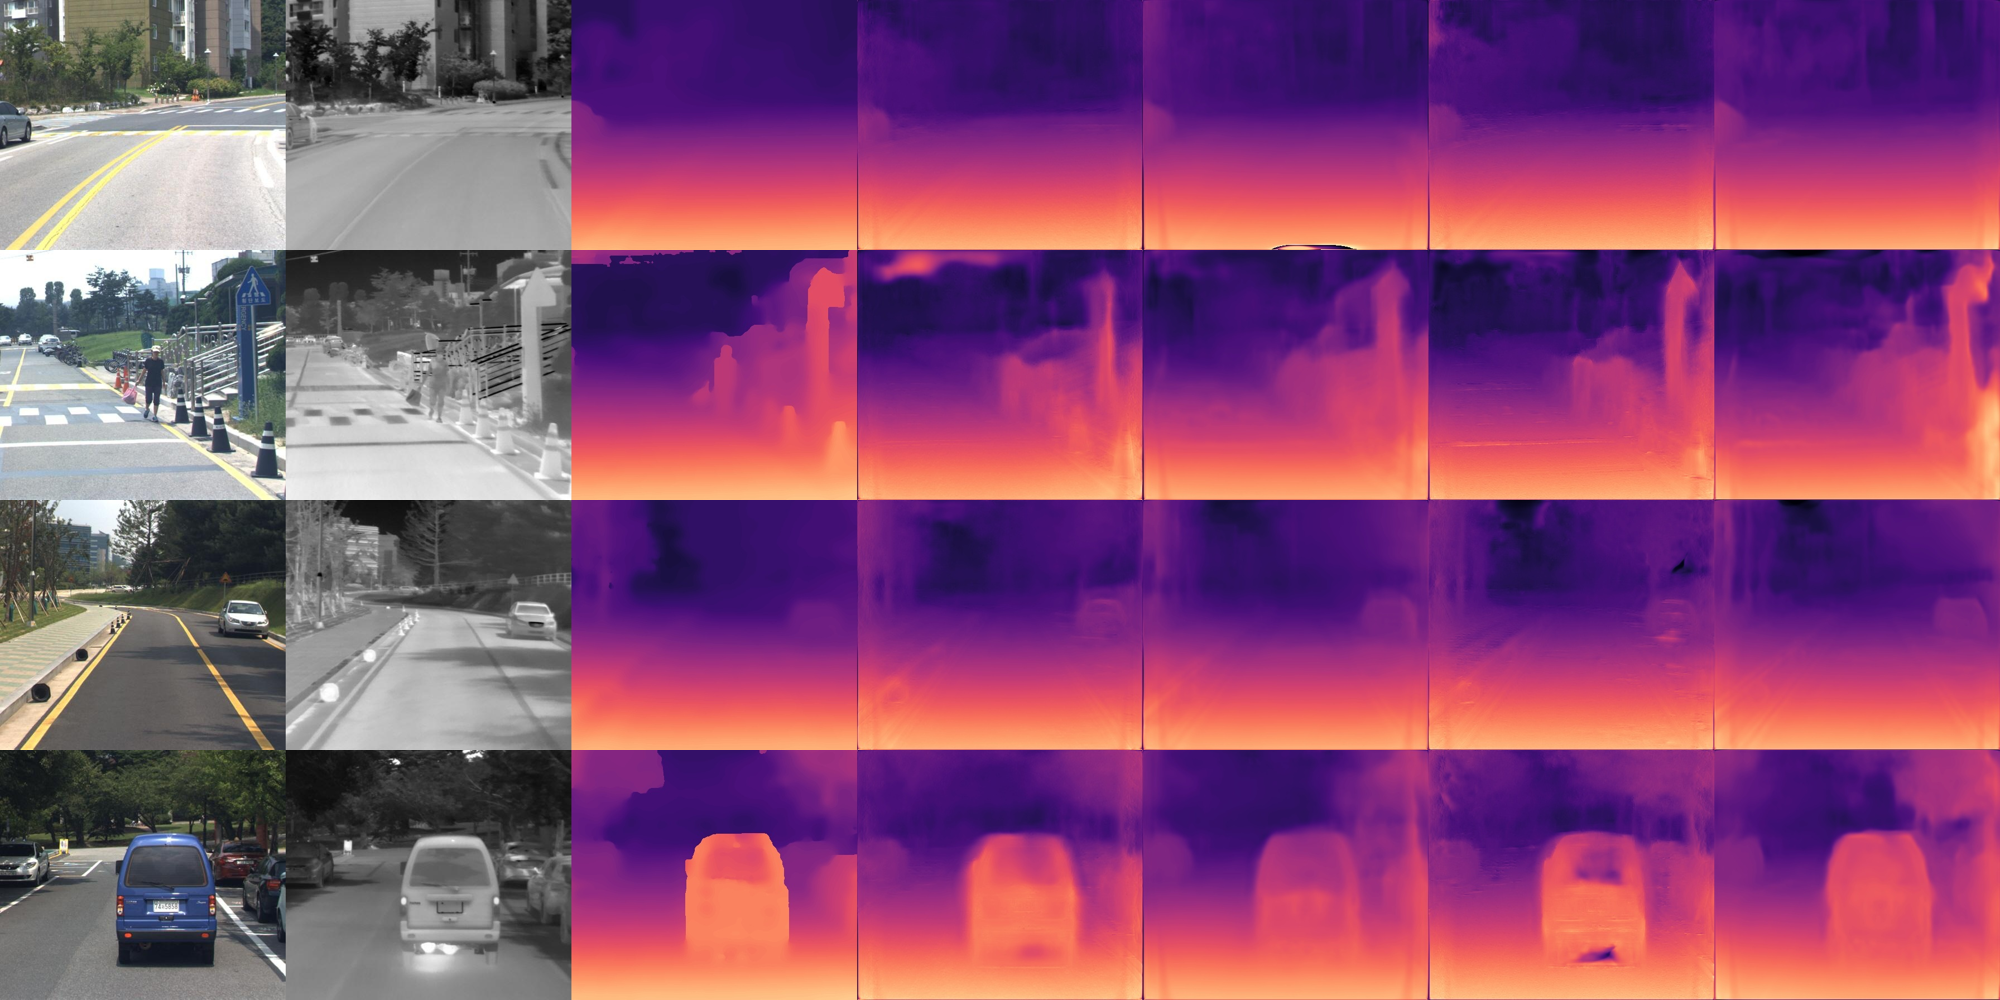
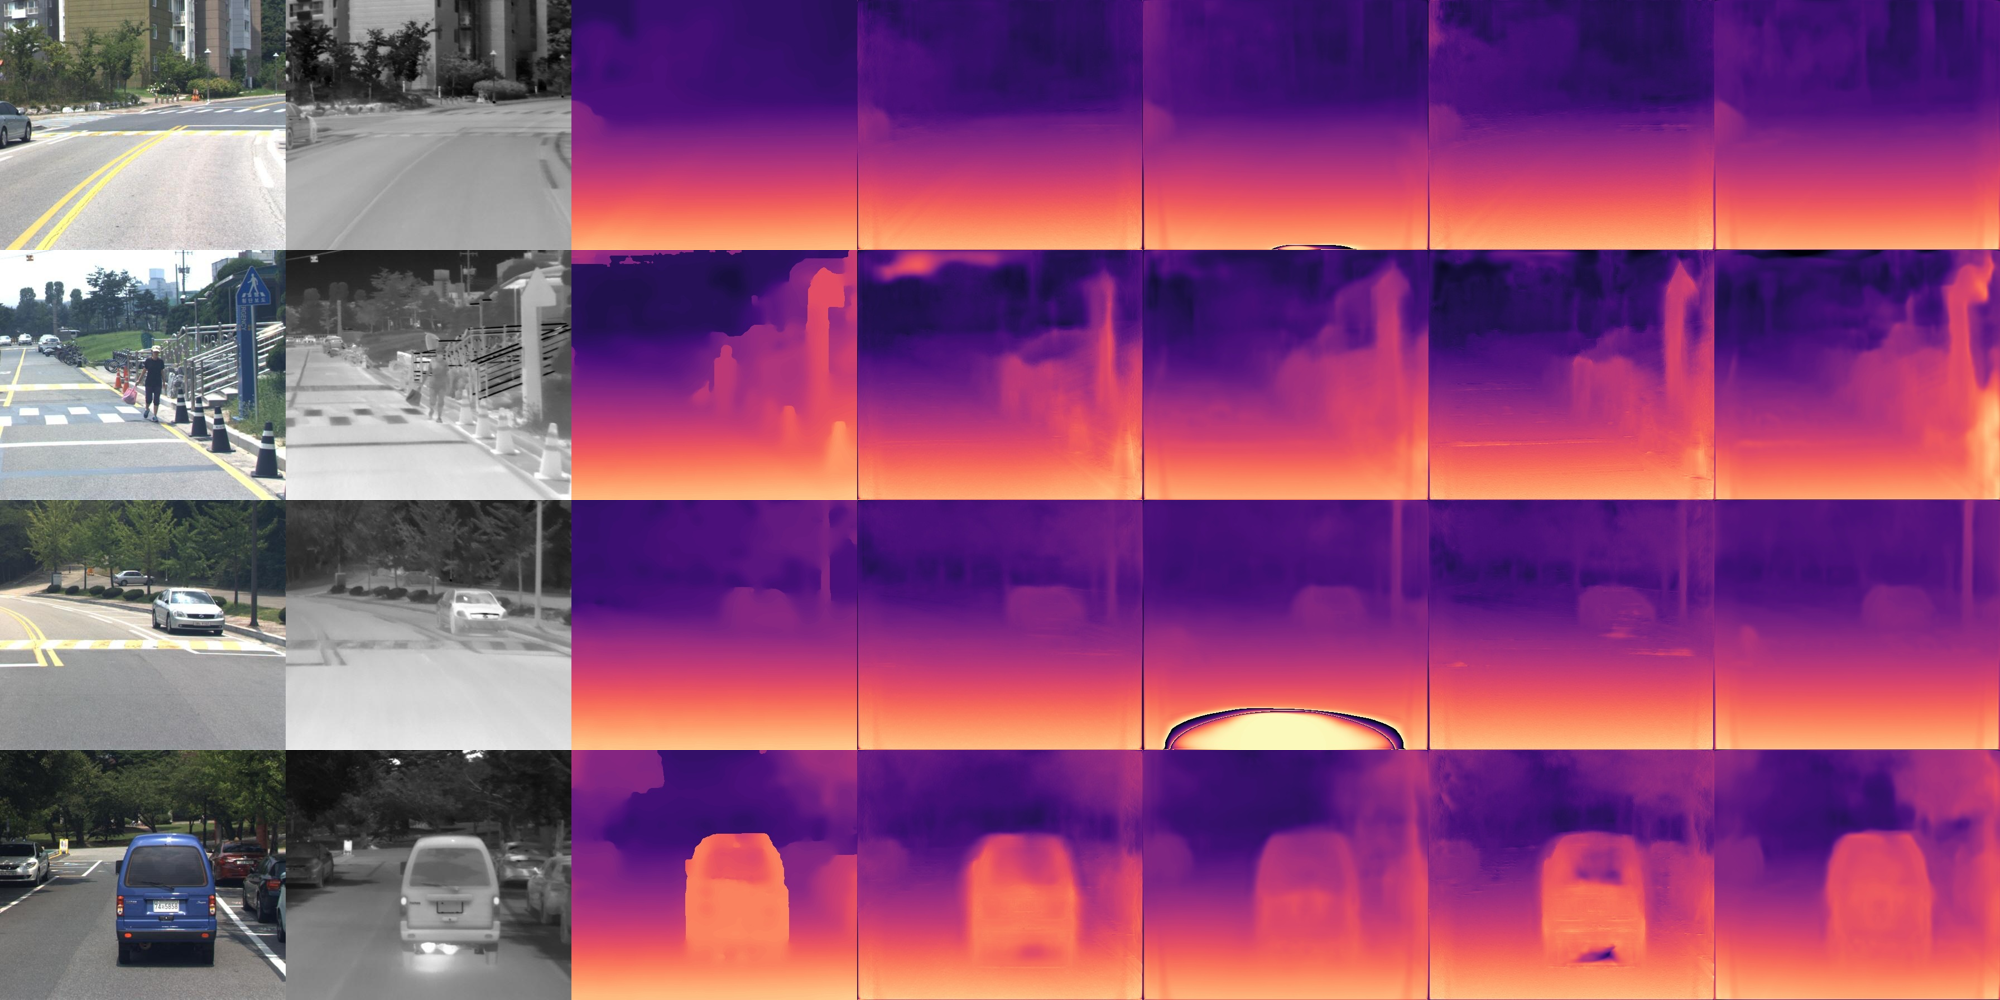
Readme

diff --git a/Pseudo-Lidar/README.md b/Pseudo-Lidar/README.md
@@ -109,31 +109,42 @@ matplotlib
 
 
 ## 정량적 평가
-- 칼라 영상(RGB)과 열화상영상(Thermal) 각각을 깊이 추정 모델의 입력 영상으로 사용하여 추정된 깊이 정보의 정확도를 분석
 
-| model |  입력영상| RMSE <50| RMLSE<50 | RMSE <80| RMLSE<80 |
+- 추정된 깊이 정보의 성능 평가를 위해 성능평가지표(evaluation metric)로 RMSE(Root Mean Squre Error)와 RMLSE((Root Mean Squre Logarithmic Error)를 사용 하였음
+- 깊이 정보의 성능 평가를 위해 일반적으로 최대 깊이 정보를 50m 혹은 80m 로 제한하고 있음.
+- 칼라 영상(RGB)과 열화상영상(Thermal) 각각을 깊이 추정 모델의 입력 영상으로 사용하여 추정된 깊이 정보의 정확도를 분석
+  - 분석 결과 열화상 영상을 입력으로 사용한 결과(RMSE)는 칼라 영상을 입력으로 사용한 결과와 소폭 차이는 있으나 유사한 것으로 판단됨
+  - 또한 RMSLE 에서는 오히려 열화상 영상을 입력으로한 결과가 좋은 성능을 보임. 이를 통해 전체적인 Depth 의 정확성은 칼라를 입력으로 했을 때 더욱 좋은 성능을 보장하지만, 가까운 물체의 깊이정보가 중요할 경우 열화상 영상을 입력으로 하면 좋다는 결론이 도출 된다.   
+
+| model |  입력영상| RMSE <50| RMLSE<50m | RMSE <80m| RMSLE<80 m|
 |:-----: | :-----:|:-----: |:-----: |:-----: |:-----: |
 | Monodepth |   칼라  |  4.2886 |  0.2038  | 4.2886 | 0.2038 |
 | Monodepth |   열화상 |  4.7079 |  0.1988 | 4.7079 | 0.1988 |
 
 - 베이스 라인 방법론에 멀티스펙트럴 데이터셋을 적용했을 경우 문제되는 Depth Hall을 줄이기 위해 Balanced L1 loss , Smooth L1 Loss 적용 성능
+  - Smooth L1 loss를 L1 loss 대신 적용했을 때 RMSLE 평가 지표에서 가장 좋은 성능을 나타냄, 또한 열화상을 입력으로 했을 때는 50m 이하 RMSE 에서도 베이스라인 성능 보다 좋은 성능을 보인다. 
 
-| model |  입력영상| RMSE <50| RMLSE<50 | RMSE <80| RMLSE<80 |
+| model |  입력영상| RMSE <50m | RMLSE<50m | RMSE <80m| RMSLE<80m |
 |:-----: | :-----:|:-----: |:-----: |:-----: |:-----: |
 | Monodepth |   칼라  |  4.2886 |  0.2038  | 4.2886 | 0.2038 |
 | Monodepth+Balanced L1 loss |   칼라 |  4.4707 |  0.1880 | 5.5746 | 0.1955 |
-| Monodepth+Smooth L1 loss |   칼라  |  4.3035 |  0.1805  | 5.1633 | 0.1895 |
+| Monodepth+Smooth L1 loss(제안된 방법론) |   칼라  |  4.3035 |  0.1805  | 5.1633 | 0.1895 |
 | Monodepth |   열화상 |  4.7079 |  0.1988 | 4.7079 | 0.1988 |
 | Monodepth+Balanced L1 loss |   열화상  |  4.7470 |  0.1941  | 5.8399 | 0.2058 |
-| Monodepth+Smooth L1 loss |   열화상 |  4.4529 |  0.1830 | 5.1450 | 0.1897 |
+| Monodepth+Smooth L1 loss(제안된 방법론) |   열화상 |  4.4529 |  0.1830 | 5.1450 | 0.1897 |
 
 
 ## 정성적 평가
 - 자가 학습 기반 깊이 추정 모델(Pseudo-Lidar)의 정성적 결과
-![eval_visualize](images/eval_visualize.png) (그림 1) 왼쪽 칼라영상, 열화상영상, 정답 Disparity 영상, 칼라 영상을 이용한 베이스라인 결과 , 열화상영상을 이용한  베이스라인 결과, 칼라 영상을 이용한 제안된 방법론 결과, 열화상 영상을 이용한 제안한 방법론 결과
-- 열화상 영상을 이용하여 추정된 깊이 정보를 3D 공간상으로 투영한 정성적 결과
-![visualize_Thermal](images/visualize_Thermal.jpg) (그림 2) 왼쪽 부터  열화상 영상 , 추정된 깊이 영상,  추정된 Pseudo-Lidar 
-- 칼라 영상을 이용하여 추정된 깊이 정보를 3D 공간상으로 투영한 정성적 결과
-![visualize_Thermal](images/visualize_RGB.jpg) (그림 3) 왼쪽 부터  칼라 영상 , 추정된 깊이 영상,  추정된 Pseudo-Lidar 
+   - 4열과 5열을 비교해볼 경우, 깊이 추정을 위해 사용된 입력 영상의 종류(칼라영상 혹은 열화상 영상)는 깊이 추정 결과에 작은 차이는 유발하나 매우 큰 영향은 미치지 않는 것으로 판단됨
+   - 3행 5열, 7열을 보면 Depth Hall 해결을 위해 제안된 Smooth L1 Loss가 제 역할을 하는 것을 알 수 있다. 
+![eval_visualize](images/eval_visualize.png) (그림 1) 왼쪽부터 칼라영상, 열화상영상, 정답 Disparity 영상, 칼라 영상을 이용한 베이스라인 결과 , 열화상영상을 이용한  베이스라인 결과, 칼라 영상을 이용한 제안된 방법론 결과, 열화상 영상을 이용한 제안한 방법론 결과
+- 칼라영상, 열화상 영상을 이용하여 추정된 깊이 정보를 3D 공간상으로 투영한 정성적 결과
+  - (그림 2)와 (그림 3) 모두 3D 공간 표현에 큰 차이가 없는 것을 볼 수 있다.
+  - 그림 2 와 같이 열화상 영상으로 추측한 것에 칼라 정보를 입힐 경우 사람이 입체 공간을 판단하기 매우 좋은 영상을 얻을 수 있다. 이를 통해 열화상 영상으로 칼라 영상을 잘 변환 할 경우 낮과 밤 상관 없이 운전자 혹은 군인이 주변 상황을 판단하기 좋은 입체 공간을 취득할 수 있는 것 알 수 있다. 
+
+![visualize_Thermal](images/visualize_Thermal.jpg) (그림 2) 왼쪽부터  열화상 영상 , 추정된 깊이 영상,  추정된 Pseudo-Lidar 
+
+![visualize_Thermal](images/visualize_RGB.jpg) (그림 3) 왼쪽부터  칼라 영상 , 추정된 깊이 영상,  추정된 Pseudo-Lidar 
 
 

diff --git a/Semantic-Segmantation/README.md b/Semantic-Segmantation/README.md
@@ -52,7 +52,7 @@ data
 -  시맨틱 정보 추출 기술의 베이스라인으로 선정된 OCR  모델은 클래스 물체 영역의 픽셀을 추가적인 정보로 고려하는 방법론이며, 이는 물체의 문맥 정보를 강화해서 보다 정확하게 물체를 표현하려는 장점을 가짐
 
 - 사전 모델 Download
-  - OCR 모델을 Cityscape로 사전 학습 시킨 파라미터를 다운받아야 좀 더 수렴이 빨리 이뤄진다.
+  - OCR 모델을 Cityscape로 사전 학습 시킨 파라미터를 다운받아야 좀 더 수렴이 빨리 이뤄진다.***(필수)***
   ```
   mkdir checkpoints
   wget https://download.openmmlab.com/mmsegmentation/v0.5/ocrnet/ocrnet_hr48_512x1024_160k_cityscapes/ocrnet_hr48_512x1024_160k_cityscapes_20200602_191037-dfbf1b0c.pth -P checkpoints
@@ -68,9 +68,10 @@ data
 
 - 아래 결과를 통해 낮과 밤 모든 시간대에서는 열화상 영상을 입력으로 사용한 시맨틱 정보 추정의 결과가 칼라영상을 입력으로 사용한 결과 보다 정량 평가(mIoU, mACC)에서 좋은 성능을 나타냄을 확인할 수 있음
 
+
 | 입력 영상| mIoU | mACC |
 | :-----:|:-----: |:-----: |
-|   열화상    | 46.46 | 60.9 |
+|   열화상  | 46.46 | 60.9 |
 |   칼라  |  42.58 |  48.32  |
 
 (표 1) 낮+밤 에서 정량적 성능평가
